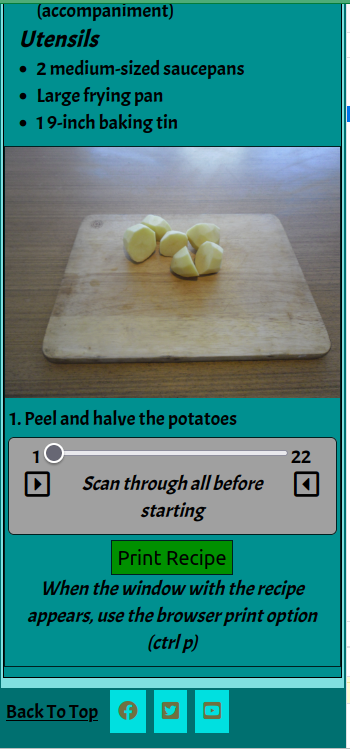
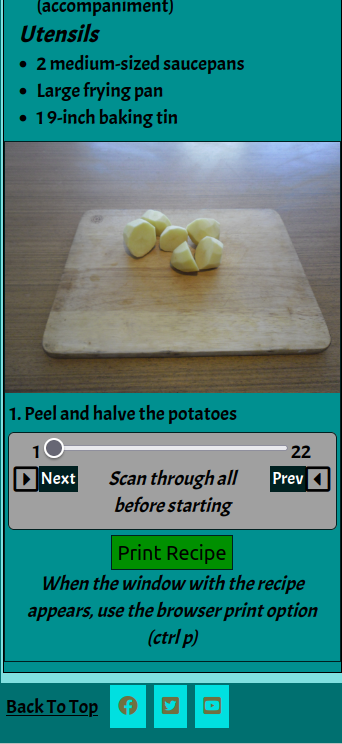
Replace systems test images - recipe controls

diff --git a/SYSTEMS-TESTS.md b/SYSTEMS-TESTS.md
@@ -145,6 +145,8 @@ Comments Already Submitted<br>
 ![Comments Already Submitted](/doc/readme-images/comments-already-submitted-crop.png "Comments Already Submitted")
 
 #### Recipe Page - Recipe Step Controls
+Note that these tests were performed BEFORE the button labels were added - no impact.
+
 Next Button Valid<br>
 ![Recipe Next Step Click Valid](/doc/readme-images/recipe-next-step-valid-crop.png "Recipe Next Step Click Valid")
 
